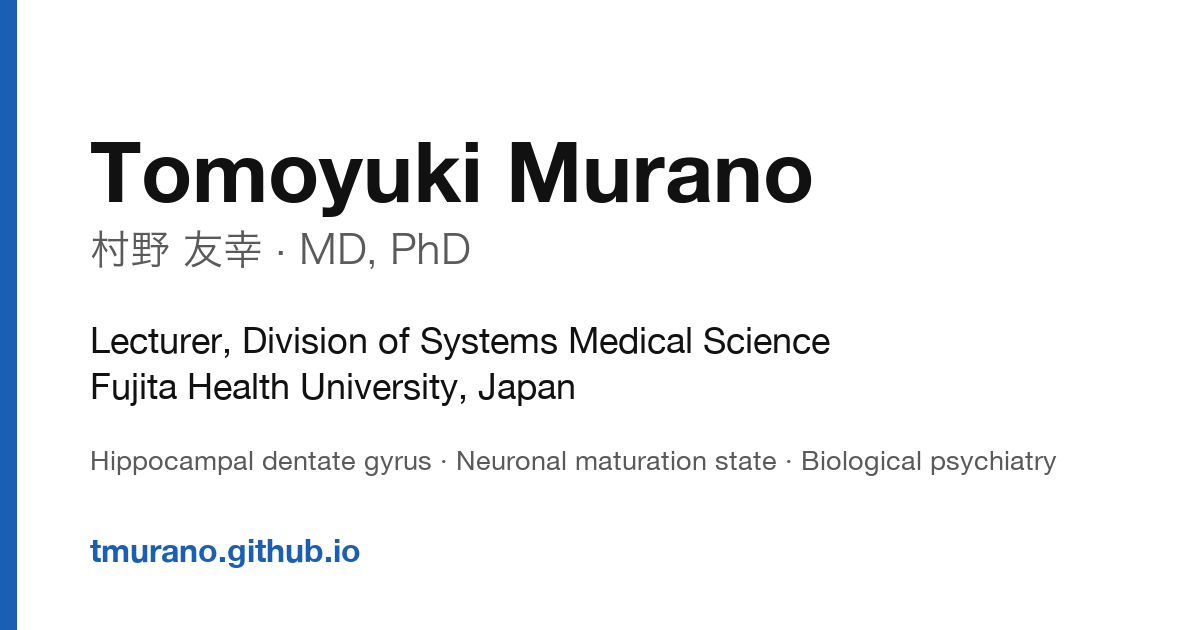
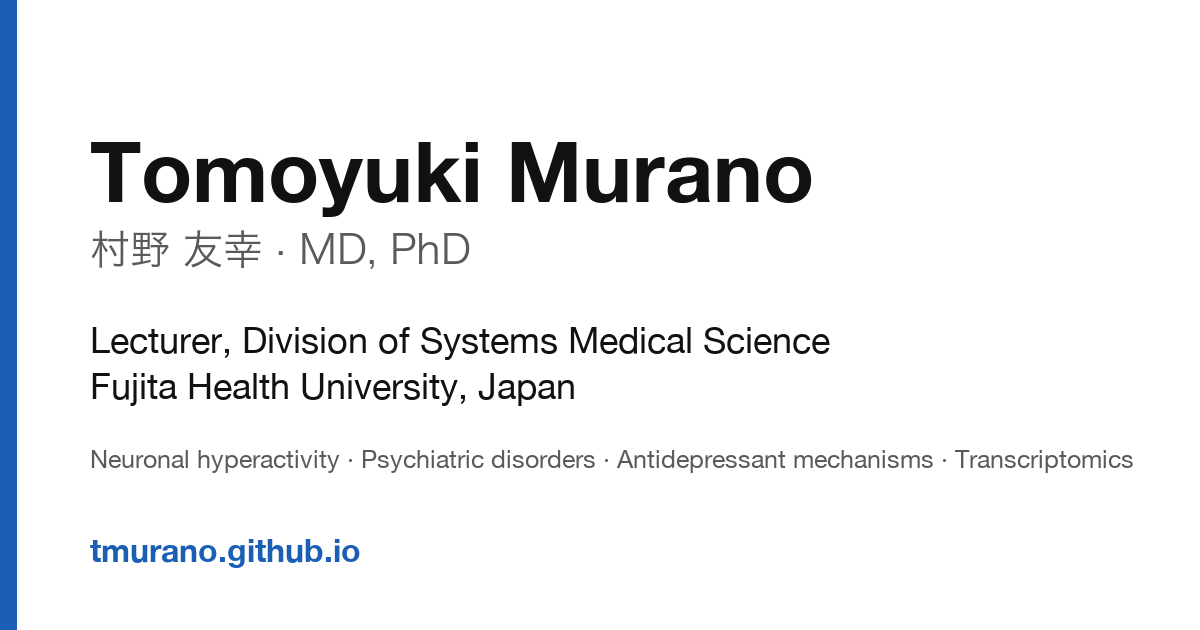
Reframe the profile around neuronal hyperactivity
- Self-introduction (EN/JA): neuronal hyperactivity as the main theme,
  studied from its pathological and physiological sides; no longer
  limited to the dentate gyrus; fewer technical details
- Aims: wording edits from the author and the life theme (new types of
  plasticity, basic principles of the brain and links to disease)
- Research theme 1 retitled; page descriptions, structured data and the
  link-preview card updated accordingly

Changed region(s): [[0.0617, 0.6937, 0.9558, 0.754]]

diff --git a/ja/research.html b/ja/research.html
@@ -4,7 +4,7 @@
 <meta charset="utf-8">
 <meta name="viewport" content="width=device-width, initial-scale=1">
 <title>研究紹介 — 村野友幸（藤田医科大学）</title>
-<meta name="description" content="村野友幸の研究紹介：神経過活動と抗うつ作用（神経細胞の成熟状態の制御）、ヒト疾患のトランスクリプトーム解析・メタ解析、カルシウムイメージングによる情報の符号化。">
+<meta name="description" content="村野友幸の研究紹介：神経過活動の生理的・病理的作用、ヒト疾患のトランスクリプトーム解析・メタ解析、カルシウムイメージングによる情報の符号化。">
 <meta name="author" content="村野友幸">
 <meta name="color-scheme" content="light dark">
 <link rel="icon" href="/favicon.ico" sizes="any">
@@ -16,7 +16,7 @@
 <meta property="og:type" content="website">
 <meta property="og:site_name" content="村野友幸 Tomoyuki Murano">
 <meta property="og:title" content="研究紹介 — 村野友幸（藤田医科大学）">
-<meta property="og:description" content="村野友幸の研究紹介：神経過活動と抗うつ作用（神経細胞の成熟状態の制御）、ヒト疾患のトランスクリプトーム解析・メタ解析、カルシウムイメージングによる情報の符号化。">
+<meta property="og:description" content="村野友幸の研究紹介：神経過活動の生理的・病理的作用、ヒト疾患のトランスクリプトーム解析・メタ解析、カルシウムイメージングによる情報の符号化。">
 <meta property="og:url" content="https://tmurano.github.io/ja/research.html">
 <meta property="og:image" content="https://tmurano.github.io/assets/img/og.png">
 <meta property="og:image:width" content="1200">
@@ -29,11 +29,11 @@
 <div class="page">
 <header class="topbar"><a class="home" href="/ja/">村野友幸 <span lang="en" class="note">Tomoyuki Murano</span></a><nav class="linkrow" aria-label="メイン"><a href="/ja/research.html" aria-current="page">研究紹介</a><a href="/ja/publications.html">業績</a><a href="/ja/media.html">報道</a><a href="/ja/cv.html">略歴</a><a href="/research.html" lang="en" hreflang="en">English</a></nav></header>
 <h1 class="title">研究紹介</h1>
-<h2>1. 神経過活動と抗うつ作用：神経細胞の成熟状態の制御</h2>
-<p>成熟した神経細胞の状態は固定されたものではなく、海馬歯状回の顆粒細胞は成体になってからも未成熟様の状態へ戻りうることが知られています（脱成熟；<a href="https://doi.org/10.1186/s13041-019-0522-8">Mol Brain 2019</a>）。私たちは、電気けいれん療法を模した歯状回への反復光遺伝学刺激（REPOPS）を用いて、繰り返される神経活動が核リプログラミングを介して神経細胞の成熟状態を制御し、抗うつ様の行動変化を伴うことを明らかにしました（<a href="https://doi.org/10.1038/s41467-026-74202-w">Nat Commun 2026</a>）。現在は、繰り返される神経過活動がなぜ抗うつ効果をもたらすのか、また神経過活動が精神疾患の病態にどう関わるのかを、シングル核トランスクリプトーム・エピゲノム解析などを用いて調べています（JST 創発的研究支援事業、科研費）。</p>
+<h2>1. 神経過活動の生理的・病理的作用</h2>
+<p>神経過活動を、生理的な作用と病理的な作用の両面から調べています。電気けいれん療法を模した反復光遺伝学刺激（REPOPS）を用いて、繰り返される神経活動が核リプログラミングを介して神経細胞の状態を長期的に書き換え、抗うつ様の行動変化を伴うことを明らかにしました（<a href="https://doi.org/10.1038/s41467-026-74202-w">Nat Commun 2026</a>）。現在は、繰り返される神経過活動がなぜ抗うつ効果をもたらすのか、また神経過活動が精神疾患の病態にどう関わるのかを、トランスクリプトーム・エピゲノム解析などを用いて調べています（JST 創発的研究支援事業、科研費）。</p>
 
 <h2>2. ヒト疾患のトランスクリプトーム解析・メタ解析</h2>
-<p>ヒト死後脳や疾患モデルの公開遺伝子発現データを研究横断的に解析し、精神・神経疾患に共通する分子病態を一貫して探ってきました。アルコール依存症患者の海馬と前頭前皮質にみられる遺伝子発現上の「未成熟化」（<a href="https://doi.org/10.1038/srep44531">Sci Rep 2017</a>）、神経過活動による未成熟様の変化が複数の精神疾患に共通してみられること（<a href="https://doi.org/10.1038/s42003-018-0277-2">Commun Biol 2019</a>）、脳の pH に関連する遺伝子発現が複数の疾患で変化していること（<a href="https://doi.org/10.3389/fpsyt.2023.1151480">Front Psychiatry 2023</a>）などを報告しています。こうした解析の流れの中で、外部の参照シグネチャに対して遺伝子発現をスコア化する手法を開発し、その考え方を単一細胞データに広げたのが RFind-sc です（<a href="https://doi.org/10.64898/2026.10.21.759514">bioRxiv 2026</a>、<a href="/software.html">ソフトウェア</a>）。</p>
+<p>ヒト死後脳や疾患モデルの公開遺伝子発現データを研究横断的に解析し、精神・神経疾患に共通する分子病態を一貫して探ってきました。アルコール依存症患者の海馬と前頭前皮質にみられる遺伝子発現上の「未成熟化」（<a href="https://doi.org/10.1038/srep44531">Sci Rep 2017</a>）、神経過活動による遺伝子発現変化が複数の精神疾患に共通してみられること（<a href="https://doi.org/10.1038/s42003-018-0277-2">Commun Biol 2019</a>）、脳の pH に関連する遺伝子発現が複数の疾患で変化していること（<a href="https://doi.org/10.3389/fpsyt.2023.1151480">Front Psychiatry 2023</a>）などを報告しています。こうした解析の流れの中で、外部の参照シグネチャに対して遺伝子発現をスコア化する手法を開発し、その考え方を単一細胞データに広げたのが RFind-sc です（<a href="https://doi.org/10.64898/2026.10.21.759514">bioRxiv 2026</a>、<a href="/software.html">ソフトウェア</a>）。</p>
 
 <h2>3. 脳における情報の符号化：カルシウムイメージング</h2>
 <p>神経細胞の集団が情報をどのように符号化しているのかに関心があり、特に海馬歯状回、そして疾患モデル動物の歯状回に注目しています。自由行動中のマウスのカルシウムイメージングと機械学習により、位置・速度・移動方向といった複数のナビゲーション情報が歯状回ニューロン集団の活動に互いに独立に符号化されていること、空間記憶に障害を示す αCaMKII ヘテロ欠損マウスでは一部の情報の解読精度が選択的に低下していることを示しました（<a href="https://doi.org/10.1073/pnas.2106830119">PNAS 2022</a>）。</p>

diff --git a/ja/index.html b/ja/index.html
@@ -4,7 +4,7 @@
 <meta charset="utf-8">
 <meta name="viewport" content="width=device-width, initial-scale=1">
 <title>村野友幸（むらの ともゆき）| 藤田医科大学 医科学研究センター 講師 — Tomoyuki Murano</title>
-<meta name="description" content="村野友幸（むらの ともゆき）博士（医学）。藤田医科大学 医科学研究センター システム医科学研究部門 講師。神経過活動による神経細胞の成熟状態の制御、精神疾患の病態、抗うつ治療の作用機序、ヒト疾患のトランスクリプトーム解析を研究。">
+<meta name="description" content="村野友幸（むらの ともゆき）博士（医学）。藤田医科大学 医科学研究センター システム医科学研究部門 講師。神経過活動の生理的・病理的作用、精神疾患の病態、抗うつ治療の作用機序、ヒト疾患のトランスクリプトーム解析を研究。">
 <meta name="author" content="村野友幸">
 <meta name="color-scheme" content="light dark">
 <link rel="icon" href="/favicon.ico" sizes="any">
@@ -17,7 +17,7 @@
 <meta property="og:type" content="profile">
 <meta property="og:site_name" content="村野友幸 Tomoyuki Murano">
 <meta property="og:title" content="村野友幸（むらの ともゆき）| 藤田医科大学 医科学研究センター 講師 — Tomoyuki Murano">
-<meta property="og:description" content="村野友幸（むらの ともゆき）博士（医学）。藤田医科大学 医科学研究センター システム医科学研究部門 講師。神経過活動による神経細胞の成熟状態の制御、精神疾患の病態、抗うつ治療の作用機序、ヒト疾患のトランスクリプトーム解析を研究。">
+<meta property="og:description" content="村野友幸（むらの ともゆき）博士（医学）。藤田医科大学 医科学研究センター システム医科学研究部門 講師。神経過活動の生理的・病理的作用、精神疾患の病態、抗うつ治療の作用機序、ヒト疾患のトランスクリプトーム解析を研究。">
 <meta property="og:url" content="https://tmurano.github.io/ja/">
 <meta property="og:image" content="https://tmurano.github.io/assets/img/og.png">
 <meta property="og:image:width" content="1200">
@@ -76,7 +76,7 @@
     ],
     "knowsAbout": [
       "神経科学",
-      "海馬歯状回",
+      "神経過活動",
       "生物学的精神医学",
       "バイオインフォマティクス",
       "電気けいれん療法"
@@ -98,7 +98,7 @@
 <h1 class="name">村野 友幸</h1>
 <p class="name-sub">むらの ともゆき · <span lang="en">Tomoyuki Murano, MD, PhD</span></p>
 
-<p>藤田医科大学 医科学研究センター システム医科学研究部門 講師（宮川研究室）。神経活動が脳の神経細胞の成熟状態をどのように制御するのか、神経過活動が引き起こす脳の「疑似未成熟化」が精神疾患とどう関わるのか、そして電気けいれん療法などの抗うつ治療がどのように効くのかを研究しています。光遺伝学、カルシウムイメージング、バルク／シングル核のトランスクリプトーム・エピゲノム解析に、参照シグネチャに基づいて遺伝子発現を解釈する自作の解析ツールを組み合わせています。</p>
+<p>藤田医科大学 医科学研究センター システム医科学研究部門 講師（宮川研究室）。神経過活動を主なテーマに、その病理的な作用（精神疾患の病態への関わり）と生理的な作用（電気けいれん療法のように繰り返される神経活動が神経細胞の状態を書き換え、抗うつ効果をもたらす仕組み）の両面から研究しています。光遺伝学、カルシウムイメージング、トランスクリプトーム・エピゲノム解析、ヒト疾患データのメタ解析に、自作の解析ツールを組み合わせています。</p>
 <p>東京大学 医学部医学科卒業、総合研究大学院大学で博士（医学）。専門：神経科学、生物学的精神医学、バイオインフォマティクス、カルシウムイメージング。</p>
 
 <p class="contact"><a href="mailto:tomoyuki.murano@fujita-hu.ac.jp">tomoyuki.murano@fujita-hu.ac.jp</a>（予備：<a href="mailto:murano.mg@gmail.com">murano.mg@gmail.com</a>）・<a href="tel:+81-562-93-9383">+81-562-93-9383</a><br>
@@ -107,7 +107,7 @@
 <nav class="linkrow" aria-label="プロフィール"><a href="mailto:tomoyuki.murano@fujita-hu.ac.jp">メール</a><a href="https://scholar.google.com/citations?user=rHNBk54AAAAJ">Google Scholar</a><a href="https://orcid.org/0000-0002-9351-737X">ORCID</a><a href="https://researchmap.jp/murano">researchmap</a><a href="https://nrid.nii.ac.jp/ja/nrid/1000070887827/">KAKEN</a><a href="https://github.com/tmurano">GitHub</a></nav>
 
 <h2>目指していること</h2>
-<p>新しい計測・操作技術によって大規模な研究が可能になった今こそ、「何を知りたいのか」という根源的な問いが技術の選び方と使い方を方向づける研究が大切だと考えています。発火パターンやシナプスの変化だけでなく、ニューロンの「細胞状態」そのものを可塑性の単位として捉えたい。電気けいれん療法の劇的な治療効果に抱いた問いを、神経過活動が成熟ニューロンの状態を書き換えるという原理へと展開してきました。これからも、心にまつわる疑問と神経科学の問いを往復しながら、新しい研究領域を切り拓きたいと考えています。</p>
+<p>新しい計測・操作技術によって大規模な研究がどんどん可能になってきているからこそ、何が本質的に重要なのか、そして何を知りたいのかという根源的な問いが、技術の選び方と使い方を方向づける研究が大切だと考えています。発火パターンやシナプスの変化だけでなく、ニューロンの「細胞状態」そのものを可塑性の単位として捉えたい。電気けいれん療法の劇的な治療効果に抱いた問いを、神経過活動が成熟ニューロンの状態を書き換えるという原理へと展開してきました。新しいタイプの可塑性に着目し、脳の基本原理と、その病気とのつながりを明らかにしていくことが、私のライフテーマです。</p>
 
 <h2>研究費（研究代表者）</h2>
 <ul class="dated">

diff --git a/index.html b/index.html
@@ -4,7 +4,7 @@
 <meta charset="utf-8">
 <meta name="viewport" content="width=device-width, initial-scale=1">
 <title>Tomoyuki Murano (村野友幸), MD, PhD — Neuroscientist, Fujita Health University</title>
-<meta name="description" content="Tomoyuki Murano (村野友幸), MD, PhD. Lecturer, Division of Systems Medical Science, Center for Medical Science, Fujita Health University, Japan. Neuroscience of neuronal maturation state, neuronal hyperactivity and psychiatric disorders, antidepressant mechanisms, and transcriptome analysis of human brain disorders.">
+<meta name="description" content="Tomoyuki Murano (村野友幸), MD, PhD. Lecturer, Division of Systems Medical Science, Center for Medical Science, Fujita Health University, Japan. Research on the physiological and pathological effects of neuronal hyperactivity, psychiatric disorders, antidepressant mechanisms, and transcriptome analysis of human brain disorders.">
 <meta name="author" content="Tomoyuki Murano">
 <meta name="google-site-verification" content="6h1nQT9pwdfLzG_dfWTwkRfHCO4w7Nv94RBx3rA7yAM">
 <meta name="msvalidate.01" content="AB6C7A4686621A567A0AEF7A6C8B6A32">
@@ -19,7 +19,7 @@
 <meta property="og:type" content="profile">
 <meta property="og:site_name" content="Tomoyuki Murano">
 <meta property="og:title" content="Tomoyuki Murano (村野友幸), MD, PhD — Neuroscientist, Fujita Health University">
-<meta property="og:description" content="Tomoyuki Murano (村野友幸), MD, PhD. Lecturer, Division of Systems Medical Science, Center for Medical Science, Fujita Health University, Japan. Neuroscience of neuronal maturation state, neuronal hyperactivity and psychiatric disorders, antidepressant mechanisms, and transcriptome analysis of human brain disorders.">
+<meta property="og:description" content="Tomoyuki Murano (村野友幸), MD, PhD. Lecturer, Division of Systems Medical Science, Center for Medical Science, Fujita Health University, Japan. Research on the physiological and pathological effects of neuronal hyperactivity, psychiatric disorders, antidepressant mechanisms, and transcriptome analysis of human brain disorders.">
 <meta property="og:url" content="https://tmurano.github.io/">
 <meta property="og:image" content="https://tmurano.github.io/assets/img/og.png">
 <meta property="og:image:width" content="1200">
@@ -83,7 +83,7 @@
     ],
     "knowsAbout": [
       "Neuroscience",
-      "Hippocampal dentate gyrus",
+      "Neuronal hyperactivity",
       "Biological psychiatry",
       "Bioinformatics",
       "Single-cell RNA-seq",
@@ -108,11 +108,11 @@
 
 <p>I am a Lecturer in the Division of Systems Medical Science, Center for Medical Science,
   <a href="https://www.fujita-hu.ac.jp/">Fujita Health University</a>, Japan, where I work in the Miyakawa Lab.
-  I study how neuronal activity controls the maturation state of neurons in the brain, how the pseudo-immaturity of the
-  brain induced by neuronal hyperactivity relates to psychiatric disorders, and how treatments such as electroconvulsive
-  therapy work at the cellular level. I combine
-  optogenetics, calcium imaging, and bulk and single-nucleus transcriptomics and epigenomics with computational tools that
-  I develop for interpreting gene expression against reference signatures.</p>
+  My main research theme is neuronal hyperactivity, which I study from both sides: its pathological effects — how it
+  contributes to psychiatric disorders — and its physiological effects — how repeated neuronal activation, as in
+  electroconvulsive therapy, rewrites the state of neurons and produces antidepressant effects. I combine optogenetics,
+  calcium imaging, transcriptomics and epigenomics, and meta-analysis of human disease data with
+  computational tools that I develop.</p>
 <p>I received my MD from the University of Tokyo and my PhD from SOKENDAI (National Institute for Physiological Sciences).
   Fields: neuroscience, biological psychiatry, bioinformatics, calcium imaging.</p>
 
@@ -124,11 +124,12 @@
 <nav class="linkrow" aria-label="Profiles"><a href="mailto:tomoyuki.murano@fujita-hu.ac.jp">Email</a><a href="https://scholar.google.com/citations?user=rHNBk54AAAAJ">Google Scholar</a><a href="https://orcid.org/0000-0002-9351-737X">ORCID</a><a href="https://researchmap.jp/murano">researchmap</a><a href="https://nrid.nii.ac.jp/ja/nrid/1000070887827/">KAKEN</a><a href="https://github.com/tmurano">GitHub</a></nav>
 
 <h2>What I aim for</h2>
-<p>New technologies let us measure and manipulate the brain at unprecedented scale, but the questions should still drive
-  the choice of tools. I want to treat the <em>cell state</em> of a neuron itself — not only its firing or its synapses —
+<p>Precisely because new technologies keep making larger-scale measurement and manipulation of the brain possible, I believe
+  research should be guided by fundamental questions — first, what is essentially important, and then, what we want to
+  know — and these questions should shape how we choose and use the tools. I want to treat the <em>cell state</em> of a neuron itself — not only its firing or its synapses —
   as a unit of plasticity. My research began with a question raised by the striking therapeutic effect of electroconvulsive
-  therapy, and has grown into the principle that neuronal hyperactivity can rewrite the state of mature neurons. I hope to
-  keep moving between questions about the mind and questions in neuroscience, and to open new research areas from there.</p>
+  therapy, and has grown into the principle that neuronal hyperactivity can rewrite the state of mature neurons. My life theme is to focus on new types of
+  plasticity and to uncover both the basic principles of the brain and their links to disease.</p>
 
 <h2>Funding (principal investigator)</h2>
 <ul class="dated">

diff --git a/research.html b/research.html
@@ -4,7 +4,7 @@
 <meta charset="utf-8">
 <meta name="viewport" content="width=device-width, initial-scale=1">
 <title>Research — Tomoyuki Murano (村野友幸)</title>
-<meta name="description" content="Research of Tomoyuki Murano (村野友幸): neuronal hyperactivity, neuronal maturation state and antidepressant effects; transcriptome analysis and meta-analysis of human brain disorders; information coding in the dentate gyrus.">
+<meta name="description" content="Research of Tomoyuki Murano (村野友幸): physiological and pathological effects of neuronal hyperactivity; transcriptome analysis and meta-analysis of human brain disorders; information coding in the dentate gyrus.">
 <meta name="author" content="Tomoyuki Murano">
 <meta name="color-scheme" content="light dark">
 <link rel="icon" href="/favicon.ico" sizes="any">
@@ -16,7 +16,7 @@
 <meta property="og:type" content="website">
 <meta property="og:site_name" content="Tomoyuki Murano">
 <meta property="og:title" content="Research — Tomoyuki Murano (村野友幸)">
-<meta property="og:description" content="Research of Tomoyuki Murano (村野友幸): neuronal hyperactivity, neuronal maturation state and antidepressant effects; transcriptome analysis and meta-analysis of human brain disorders; information coding in the dentate gyrus.">
+<meta property="og:description" content="Research of Tomoyuki Murano (村野友幸): physiological and pathological effects of neuronal hyperactivity; transcriptome analysis and meta-analysis of human brain disorders; information coding in the dentate gyrus.">
 <meta property="og:url" content="https://tmurano.github.io/research.html">
 <meta property="og:image" content="https://tmurano.github.io/assets/img/og.png">
 <meta property="og:image:width" content="1200">
@@ -28,20 +28,17 @@
 <div class="page">
 <header class="topbar"><a class="home" href="/">Tomoyuki Murano <span lang="ja" class="note">村野友幸</span></a><nav class="linkrow" aria-label="Main"><a href="/research.html" aria-current="page">Research</a><a href="/publications.html">Publications</a><a href="/presentations.html">Presentations</a><a href="/media.html">Media</a><a href="/cv.html">CV</a><a href="/software.html">Software</a><a href="/ja/research.html" lang="ja" hreflang="ja">日本語</a></nav></header>
 <h1 class="title">Research</h1>
-<h2>1. Neuronal hyperactivity, neuronal maturation state and antidepressant effects</h2>
-<p>Mature neurons are not fixed in their state: granule cells of the hippocampal dentate gyrus can return to an immature-like
-  state in adulthood (“dematuration”; <a href="https://doi.org/10.1186/s13041-019-0522-8">Mol Brain 2019</a>). Using repeated
-  optogenetic stimulation of the dentate gyrus (REPOPS) that models electroconvulsive therapy, we showed that repetitive neuronal
-  activation regulates the maturation state of neurons via nuclear reprogramming, together with antidepressant-like behavioural
-  changes (<a href="https://doi.org/10.1038/s41467-026-74202-w">Nat Commun 2026</a>). Building on this, we now study why repeated
-  neuronal hyperactivity has antidepressant effects, and how neuronal hyperactivity contributes to the pathophysiology of
-  psychiatric disorders, using single-nucleus transcriptomics and epigenomics (supported by JST FOREST and JSPS KAKENHI).</p>
+<h2>1. Physiological and pathological effects of neuronal hyperactivity</h2>
+<p>We study neuronal hyperactivity from both its physiological and its pathological sides. Using repeated optogenetic
+  stimulation (REPOPS) that models electroconvulsive therapy, we showed that repetitive neuronal activation rewrites the state
+  of neurons in the long term via nuclear reprogramming, together with antidepressant-like behavioural changes
+  (<a href="https://doi.org/10.1038/s41467-026-74202-w">Nat Commun 2026</a>). We now study why repeated neuronal hyperactivity
+  has antidepressant effects, and how neuronal hyperactivity contributes to the pathophysiology of psychiatric disorders, using transcriptomics and epigenomics (supported by JST FOREST and JSPS KAKENHI).</p>
 
 <h2>2. Transcriptome analysis and meta-analysis of human brain disorders</h2>
 <p>We have consistently analysed public gene-expression data from human post-mortem brains and disease models across studies, to
   find molecular changes shared by psychiatric and neurological disorders: immature-like gene expression in the hippocampus and
-  prefrontal cortex of patients with alcoholism (<a href="https://doi.org/10.1038/srep44531">Sci Rep 2017</a>), transcriptomic
-  immaturity induced by neuronal hyperexcitation that is shared by multiple neuropsychiatric disorders
+  prefrontal cortex of patients with alcoholism (<a href="https://doi.org/10.1038/srep44531">Sci Rep 2017</a>), gene-expression changes induced by neuronal hyperexcitation that are shared by multiple neuropsychiatric disorders
   (<a href="https://doi.org/10.1038/s42003-018-0277-2">Commun Biol 2019</a>), and gene expression linked to brain pH across disorders
   (<a href="https://doi.org/10.3389/fpsyt.2023.1151480">Front Psychiatry 2023</a>). Along this line we develop methods that score gene
   expression against external reference signatures; RFind-sc extends this approach to single cells
